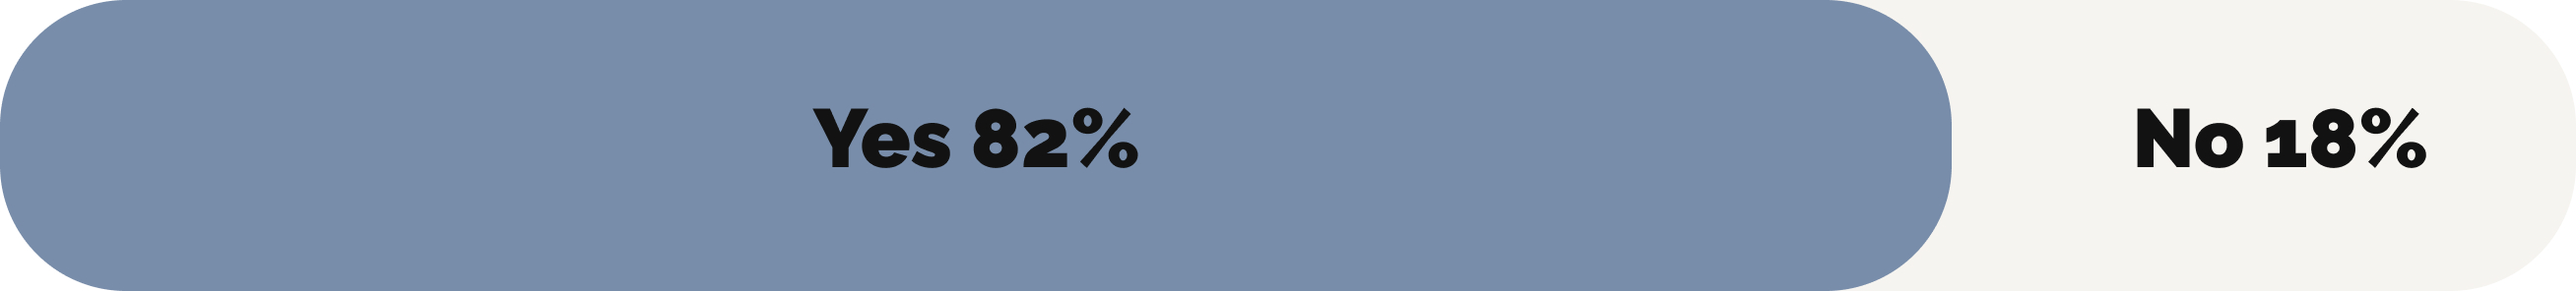
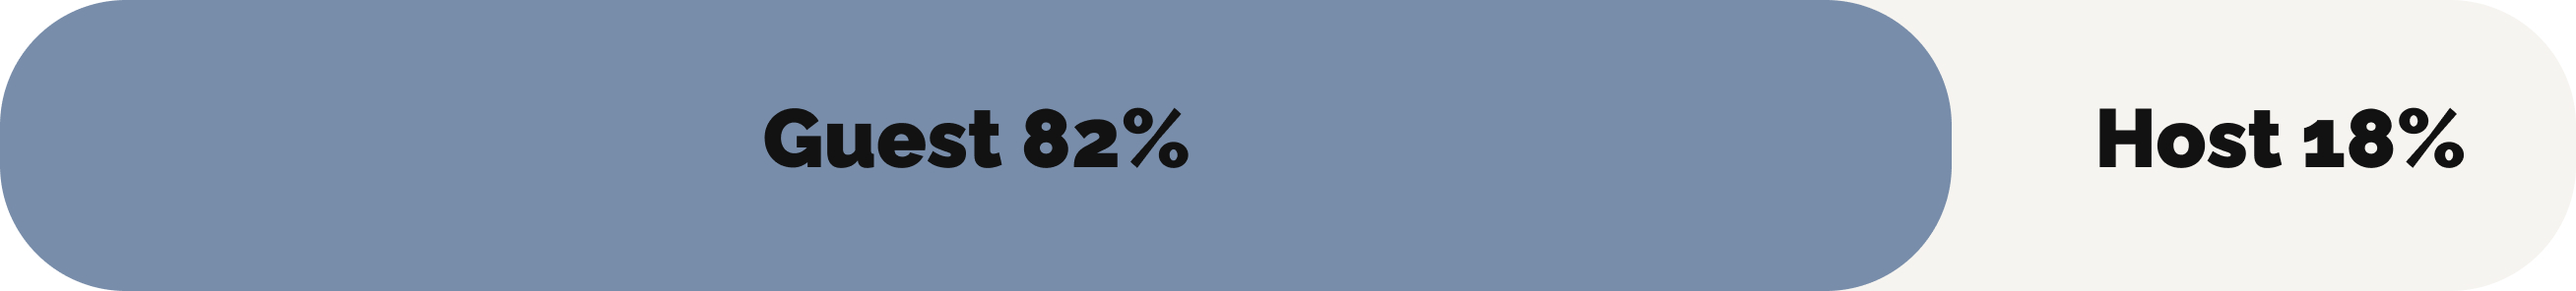
update votingbar

Changed region(s): [[0.2787, 0.3649, 0.4644, 0.5777], [0.805, 0.3649, 0.9599, 0.5777]]

diff --git a/app/voting/page.tsx b/app/voting/page.tsx
@@ -17,7 +17,7 @@ function Voting() {
         try {
             setIsLoading(true);
             if (!isVoted) {
-                toast.success("You have voted 'Agree'");
+                toast.success("You have voted 'Guest'");
                 setTimeout(() => {
                     setUsers(user => user + 1)
                 }, 1000)
@@ -34,7 +34,7 @@ function Voting() {
         try {
             setIsLoading(true);
             if (!isVoted) {
-                toast.success("You have voted 'Disagree'");
+                toast.success("You have voted 'Host'");
                 setTimeout(() => {
                     setUsers(user => user + 1)
                 }, 1000)
@@ -95,13 +95,13 @@ function Voting() {
                             />
                         </> : <>
                             <Button
-                                label="Vote 'Agree'"
+                                label="Vote 'Guest'"
                                 onClick={onIncrease}
                                 outline
                                 disabled={isLoading}
                             />
                             <Button
-                                label="Vote 'Disagree'"
+                                label="Vote 'Host'"
                                 onClick={onDelete}
                                 outline
                                 disabled={isLoading}
